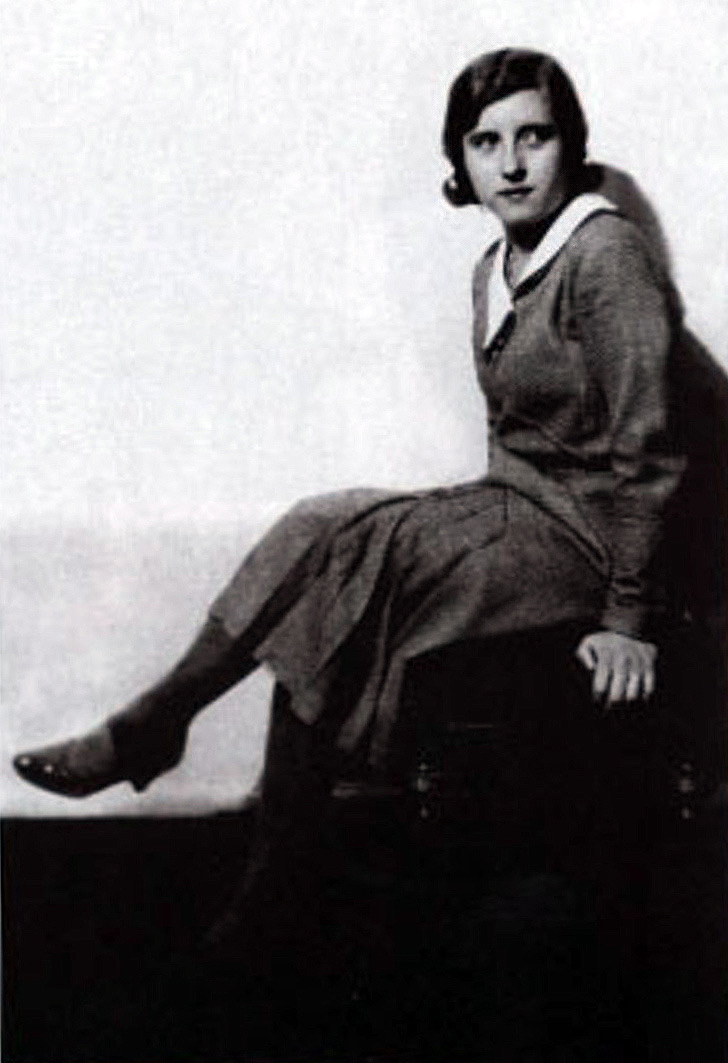
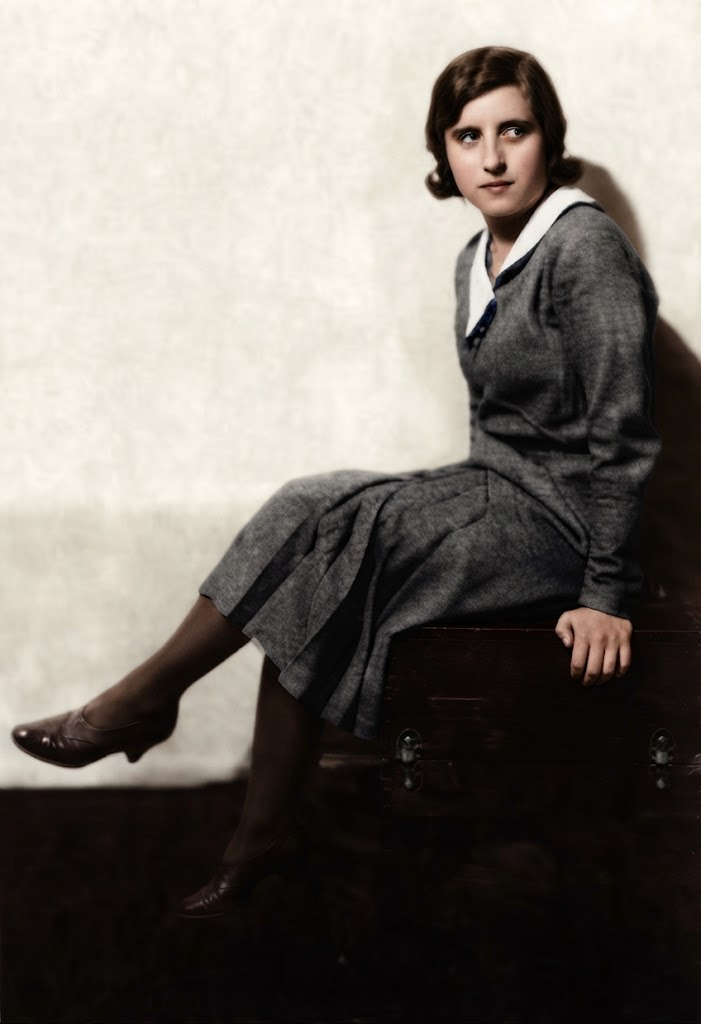
Approve 5 profiles for publishing
Skakun, Voroshylov, Prokopenko, Volynskyi, Zarytska: status draft →
approved, published 2026-10-07T15:30:00Z. Zarytska's portrait
replaced with a colorized version of the same photo (ai_edit:
colorized).

diff --git a/src/content/people/uk/kateryna-zarytska.md b/src/content/people/uk/kateryna-zarytska.md
@@ -19,6 +19,7 @@ image:
   position: "50% 5%"
   author: "Невідомий автор"
   license: "Public domain"
+  ai_edit: colorized
   source_url: "https://commons.wikimedia.org/wiki/File:Зарицька_Катерина.jpg"
 key_accomplishments:
   - "Очолювала підпільний Український Червоний Хрест (1943–1945)"
@@ -35,7 +36,8 @@ sources:
   - title: Вікіпедія - Зарицька Катерина Миронівна
     url: https://uk.wikipedia.org/wiki/Катерина_Зарицька
 related: [roman-shukhevych, stepan-bandera]
-status: draft
+status: approved
+published: 2026-10-07T15:30:00Z
 ---
 
 ## Вітання з вікна пральні

diff --git a/src/content/people/uk/vitalii-skakun.md b/src/content/people/uk/vitalii-skakun.md
@@ -29,7 +29,8 @@ sources:
   - title: "АрміяInform - «Відходь, я підірву міст разом із собою»: історія подвигу Героя України Віталія Скакуна (24.02.2023)"
     url: "https://armyinform.com.ua/2023/02/24/vidhod-ya-pidirvu-mist-razom-iz-soboyu-istoriya-podvygu-v-pershi-dni-vtorgnennya-geroya-ukrayiny-vitaliya-skakuna/"
 related: []
-status: draft
+status: approved
+published: 2026-10-07T15:30:00Z
 ---
 
 ## Зварювальник, програміст, сапер

diff --git a/src/content/people/uk/vadym-voroshylov.md b/src/content/people/uk/vadym-voroshylov.md
@@ -33,7 +33,8 @@ sources:
   - title: "Hromadske - He never dreamed of sky but became a legend: Ukrainian hero Karaya (03.03.2023)"
     url: "https://hromadske.ua/en/posts/he-never-dreamed-of-sky-but-became-a-legend-ukrainian-hero-karaya-ready-to-conquer-f-16-in-3-months-instead-of-3-years"
 related: [oleksii-mes, serhii-volynskyi]
-status: draft
+status: approved
+published: 2026-10-07T15:30:00Z
 ---
 
 ## Не мріяв про небо

diff --git a/src/content/people/uk/denys-prokopenko.md b/src/content/people/uk/denys-prokopenko.md
@@ -34,7 +34,8 @@ sources:
   - title: Вікіпедія - Прокопенко Денис Геннадійович
     url: https://uk.wikipedia.org/wiki/Прокопенко_Денис_Геннадійович
 related: [sviatoslav-palamar, serhii-volynskyi]
-status: draft
+status: approved
+published: 2026-10-07T15:30:00Z
 ---
 
 ## Учитель англійської, який став командиром

diff --git a/src/content/people/uk/serhii-volynskyi.md b/src/content/people/uk/serhii-volynskyi.md
@@ -37,7 +37,8 @@ sources:
   - title: Вікіпедія - Волинський Сергій Ярославович
     url: https://uk.wikipedia.org/wiki/Волинський_Сергій_Ярославович
 related: [denys-prokopenko, sviatoslav-palamar]
-status: draft
+status: approved
+published: 2026-10-07T15:30:00Z
 ---
 
 ## Лист з оточеного міста
